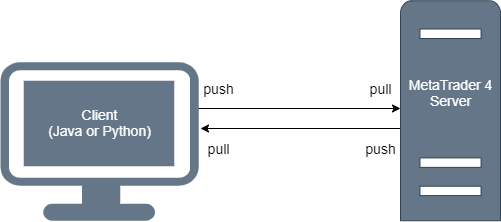
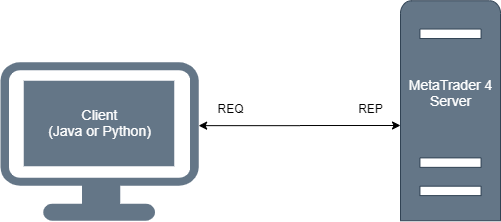
Update README and diagram

diff --git a/README.md b/README.md
@@ -7,11 +7,11 @@ See [API](docs/api.md) for supported operations.
 ## Installation
 Copy the contents of the [metatrader4](metatrader4) folder into your MetaTrader 4 profile directory, merging the 
 folder contents.  Compile [ZeroMQ_Server.mq4](metatrader4/MQL4/Scripts/ZeroMQ_Server.mq4) using MetaEditor.
-Start MetaTrader 4 and add the `ZeroMQ Server` script to any chart (chart symbol does not matter).  The server starts 
-listening for requests on its `REP` socket and responds synchronously to `REQ` requests from a client.
+Start MetaTrader 4 and add the `ZeroMQ Server` script to any chart (chart symbol does not matter).  The server begins 
+listening for client requests and responds synchronously.
 
 ## Configuration
-The default transport/port is `TCP/28282` but is configurable in the script parameters popup in the MetaTrader terminal,
+The default listening port is `TCP/28282` but is configurable in the script parameters popup in the MetaTrader terminal,
 along with other parameters such as socket timeouts.  Configure port forwarding as necessary.
 
 ## Usage
@@ -30,11 +30,10 @@ It is recommended to use one of the following client libraries to abstract away 
 - Java client (coming soon)
 
 ## Limitations
-The `REQ-REP` architecture enforces a strict request-response cycle and may deadlock if connection is lost.  The `REQ`
-sockets in the client libraries linked above set the `ZMQ_REQ_RELAXED` and `ZMQ_REQ_CORRELATE` options to achieve some 
-amount of robustness.  However, it's still recommended that the connecting client and MetaTrader 4 
-instance be on the same computer, or at least on the same local-area network.  If a response is dropped, the client
-may want to catch the exception and check whether or not the operation was successful.
+The `REQ-REP` socket connection enforces a strict request-response cycle and may deadlock if connection is lost.
+The client libraries use `ZMQ_REQ_RELAXED` and `ZMQ_REQ_CORRELATE` socket options to prevent this in most cases.
+If a response is dropped, the client may want to catch the exception and check whether or not the operation was 
+successful.
 
 ## Development
 If you want to make changes to the server implementation, it's useful to setup a local dev environment.  See 
